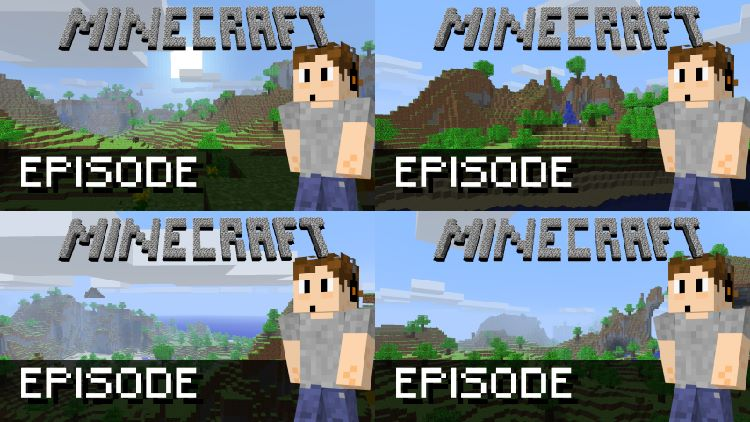
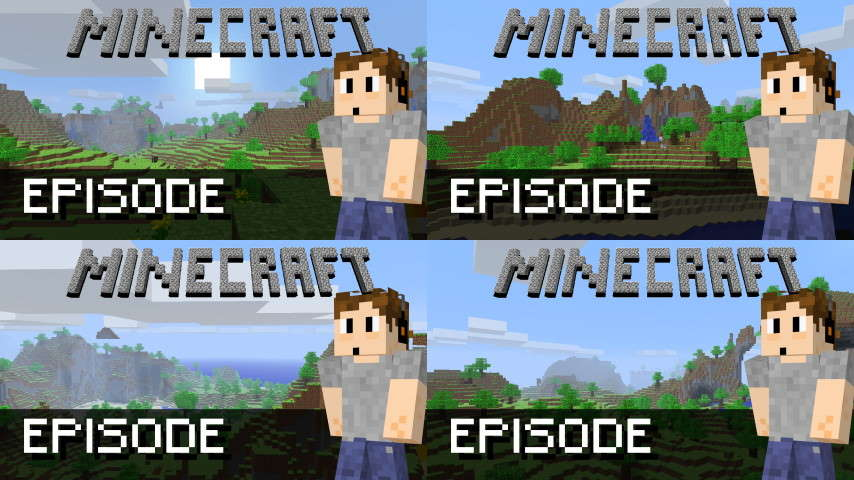
v2.1.0
-background is now a darker blue
-the body now extends to the bottom of the page on all pages
-scaling has been altered
 - 1024px wide for 1920x1080 and up
 - 960px for 1600x900
 - 800px for 1280x1024 and below
-the text "Now at james64.ca" is now a separate right aligned image form the header and now only on the home page
-improved scaling for the image gallery
 -thumbnails now scale to the width of the page
 -the thumbnails are now 854x480 (they were 750x442 since v2.0.0)
 -text is now left aligned
-the game 3dmaze is now displayed at 550x400 (was 640x480)
-the homepage has been redesigned
 -altered paragraph formatting (not too noticeable)
 -added an embed of my latest video with the text "Also here is my latest video:"
 -changed the images for my social media links so they are bigger and use different versions of the logos
 -social media links are now centered at the bottom of the page
-removed the latest entry in upcoming projects since it doesn't apply anymore

diff --git a/index.html b/index.html
@@ -7,14 +7,20 @@
 </head>
 <body>
 <div class="logo">
-<a href="index.html"><img src='assets/logo.gif'></a>
+<a href="index.html"><img src='assets/logo.gif'></a><img class="new" src='assets/new.gif'>
 </div>
 <div class="bar">
 <a href="index.html"><img src='assets/bar/hb.png' onmouseover="this.src='assets/bar/hc.png';" onmouseout="this.src='assets/bar/hb.png';" /><a href="upcoming.html"><img src='assets/bar/up.png' onmouseover="this.src='assets/bar/upa.png';" onmouseout="this.src='assets/bar/up.png';" /><a href="gallery.html"><img src='assets/bar/ig.png' onmouseover="this.src='assets/bar/iga.png';" onmouseout="this.src='assets/bar/ig.png';" /><a href="downloads.html"><img src='assets/bar/dl.png' onmouseover="this.src='assets/bar/dla.png';" onmouseout="this.src='assets/bar/dl.png';" /><a href="games.html"><img src='assets/bar/ga.png' onmouseover="this.src='assets/bar/gaa.png';" onmouseout="this.src='assets/bar/ga.png';" /><a href="about.html"><img src='assets/bar/ab.png' onmouseover="this.src='assets/bar/aba.png';" onmouseout="this.src='assets/bar/ab.png';" /><a>
 </div>
-<p>Welcome to the official James64 website!<br> <br>There isn't a lot here yet, but in the meantime check out my youtube channel, or my twitch stream!</p>
+<p>Welcome to the official James64 website!</p>
+<p>There isn't a lot here yet, but in the meantime check out my youtube channel, or my twitch stream!</p>
+<p>Also here is my latest video:</p>
+<div class="video">
+<object width= 750px height= 422px data="https://www.youtube-nocookie.com/embed/KlZDNiSLvnE?" frameborder="0"></object>
+</div>
 <div class="links">
-<a href="https://www.youtube.com/channel/UC2ynNyTzMG2cJh0oYXlyomw"><img src="assets/yt2.png" alt="YouTube"></a><a href="https://www.twitch.tv/james64live" ><img src="assets/twitch.png" alt="Twitch"</a><a href="https://twitter.com/James__64" ><img src="assets/twitter.png" alt="Twitter"><a>
-<div>
+<a href="https://www.youtube.com/channel/UC2ynNyTzMG2cJh0oYXlyomw"><img src="assets/youtube.gif" alt="YouTube"></a> <a href="https://www.twitch.tv/james64live" ><img src="assets/twitch.png" alt="Twitch"></a> <a href="https://twitter.com/James__64" ><img src="assets/twitter.gif" alt="Twitter"></a>
+</div>
+
 </body>
 </html> 

diff --git a/upcoming.html b/upcoming.html
@@ -13,8 +13,6 @@
 <a href="index.html"><img src='assets/bar/h.png' onmouseover="this.src='assets/bar/ha.png';" onmouseout="this.src='assets/bar/h.png';" /><a href="upcoming.html"><img src='assets/bar/upb.png' onmouseover="this.src='assets/bar/upc.png';" onmouseout="this.src='assets/bar/upb.png';" /><a href="gallery.html"><img src='assets/bar/ig.png' onmouseover="this.src='assets/bar/iga.png';" onmouseout="this.src='assets/bar/ig.png';" /><a href="downloads.html"><img src='assets/bar/dl.png' onmouseover="this.src='assets/bar/dla.png';" onmouseout="this.src='assets/bar/dl.png';" /><a href="games.html"><img src='assets/bar/ga.png' onmouseover="this.src='assets/bar/gaa.png';" onmouseout="this.src='assets/bar/ga.png';" /><a href="about.html"><img src='assets/bar/ab.png' onmouseover="this.src='assets/bar/aba.png';" onmouseout="this.src='assets/bar/ab.png';" /><a>
 </div>
 <div class="upcoming">
-<p style="font-size: 0.75em;">15/08/22</p>
-<p>I've fallen a little behind my plan for daily episodes of the Aether series, episode 9 should be ready by tomorrow. Besides that, I've found recording audio separately is really paying off in terms of editing. </p>
 
 <p style="font-size: 0.75em;">31/07/22</p>
 <p>There will only be three episodes next week since I'll be away and don't have time to get 5 ready. I've also switched to recording my microphone separately from the game audio. It's a bit of a hassle but it pays off in terms of having more options while editing. Also, it seems like obs noise reduction was making my voice sound off sometimes. </p>

diff --git a/downloads.html b/downloads.html
@@ -13,10 +13,10 @@
 <a href="index.html"><img src='assets/bar/h.png' onmouseover="this.src='assets/bar/ha.png';" onmouseout="this.src='assets/bar/h.png';" /><a href="upcoming.html"><img src='assets/bar/up.png' onmouseover="this.src='assets/bar/upa.png';" onmouseout="this.src='assets/bar/up.png';" /><a href="gallery.html"><img src='assets/bar/ig.png' onmouseover="this.src='assets/bar/iga.png';" onmouseout="this.src='assets/bar/ig.png';" /><a href="downloads.html"><img src='assets/bar/dlb.png' onmouseover="this.src='assets/bar/dlc.png';" onmouseout="this.src='assets/bar/dlb.png';" /><a href="games.html"><img src='assets/bar/ga.png' onmouseover="this.src='assets/bar/gaa.png';" onmouseout="this.src='assets/bar/ga.png';" /><a href="about.html"><img src='assets/bar/ab.png' onmouseover="this.src='assets/bar/aba.png';" onmouseout="this.src='assets/bar/ab.png';" /><a>
 </div>
 <p>Minecraft Alpha series world.</p>
-<p><img src="assets/images/downloads/alphaworld.png"</p>
+<p><img class="image" src="assets/images/downloads/alphaworld.jpg"</p>
 <p><a href="https://www.mediafire.com/file/5j987puq20pfpq6/minecraft_alpha_world.zip/file">Download<a></p>
 <p>Beta 1.8.1 texture pack.</p>
-<p><img src="assets/images/downloads/b1.8 pack.png"</p>
+<p><img src="assets/images/downloads/b1.8 pack.jpg"</p>
 <p><a href="https://www.mediafire.com/file/5k0yeuc9xzptf86/b1.8_pack13.zip/file">Latest version<a></p>
 <p><a href="https://www.mediafire.com/file/ebmuevrub3zsv3f/b1.8_pack_old_versions.zip/file">Older versions<a></p>
 </body>

diff --git a/3dmaze.html b/3dmaze.html
@@ -11,8 +11,7 @@
 <a href="index.html"><img src='assets/bar/h.png' onmouseover="this.src='assets/bar/ha.png';" onmouseout="this.src='assets/bar/h.png';" /><a href="upcoming.html"><img src='assets/bar/up.png' onmouseover="this.src='assets/bar/upa.png';" onmouseout="this.src='assets/bar/up.png';" /><a href="gallery.html"><img src='assets/bar/ig.png' onmouseover="this.src='assets/bar/iga.png';" onmouseout="this.src='assets/bar/ig.png';" /><a href="downloads.html"><img src='assets/bar/dl.png' onmouseover="this.src='assets/bar/dla.png';" onmouseout="this.src='assets/bar/dl.png';" /><a href="games.html"><img src='assets/bar/ga.png' onmouseover="this.src='assets/bar/gaa.png';" onmouseout="this.src='assets/bar/ga.png';" /><a href="about.html"><img src='assets/bar/ab.png' onmouseover="this.src='assets/bar/aba.png';" onmouseout="this.src='assets/bar/ab.png';" /><a>
 </div>
 <div class="game">
-<p>3D MAZE</p>
-<object width="640" height="480" data="assets/games/3dmaze/game.html"><a href="https://ruffle.rs/#downloads"><img src="assets/get_ruffle_player.gif" alt="Ruffle flash Emulator"></object>
+<object width="550" height="400" data="assets/games/3dmaze/game.html"><a href="https://ruffle.rs/#downloads"><img src="assets/get_ruffle_player.gif" alt="Ruffle flash Emulator"></object>
 </div>
 <p>Move with "W A S D"</p>
 <p>Tip: if you get lost holding down "S" will eventualy take you back to the first room"</p>

diff --git a/gallery.html b/gallery.html
@@ -14,20 +14,20 @@
 </div>
 <div class="images">
   <p>Aether Mod thumbnails</p>
-  <p><img src="assets/images/aether.jpg"</p>
-  <p> <a href="assets/images/aether/view.html">View<a>
+  <p><img class="image" src="assets/images/aether.jpg"></p>
+  <p> <a href="assets/images/aether/view.html">View<a></p>
   <p>Alpha Adventure thumbnails</p>
-  <p><img src="assets/images/aat.jpg"</p>
-  <p> <a href="assets/images/alpha_adventure/view.html">View<a>
+  <p><img class="image" src="assets/images/aat.jpg"</p>
+  <p> <a href="assets/images/alpha_adventure/view.html">View<a></p>
   <p>Decennium screenshots</p>
-  <p><img src="assets/images/decennium.jpg"</p>
-  <p> <a href="assets/images/decennium/view.html">View<a>
+  <p><img class="image" src="assets/images/decennium.jpg"</p>
+  <p> <a href="assets/images/decennium/view.html">View<a></p>
   <p>Decennium thumbnails</p>
-  <p><img src="assets/images/dec.jpg"</p>
+  <p><img class="image" src="assets/images/dec.jpg"</p>
   <p> <a href="assets/images/decennium_thumbnails/view.html">View<a>
   <p>Alpha serise thumbnail templates</p>
-  <p><img src="assets/images/ast.jpg"</p>
-  <p> <a href="assets/images/alpha1/view.html">View<a>
+  <p><img class="image" src="assets/images/ast.jpg"</p>
+  <p> <a href="assets/images/alpha1/view.html">View<a></p>
 </div>
 </body>
 </html> 

diff --git a/assets/main.css b/assets/main.css
@@ -1,14 +1,16 @@
 html {
-  background-image:url(bgxl3.jpg);
+  width: 100vw;
+  background-image:url(bgxl4.jpg);
   background-size:100% auto;
   position: center;
 }
 body {
   margin: auto;
-  width: 50%;
+  width: 60%;
   min-width: 800px;
+  min-height: 100vh;
   max-width: 1024px;
-  border-radius: 5px;
+  border-radius: 3px;
   background:url(bg.png);
   background-position: center;
   box-shadow: 2px 2px 10px;
@@ -35,17 +37,27 @@ body {
 }
 p {
   padding: 0px 25px;
+  text-align: left;
 }
 .links {
-  text-align: right;
+  text-align: center;
   padding: 25px;
 }
-.images {
+img.new {
+  float: right;
+}
+img.image {
+  width: 100%;
+  height: auto;
+}
+.video {
   text-align: center;
+  padding: 10px;
 }
 .game {
   text-align: center;
   font-size: 1.25em;
+  padding: 10px;
 }
 .games {
   text-align: center;

diff --git a/about.html b/about.html
@@ -19,6 +19,6 @@
 <p>Created 27th of September</p>
 <p> <a href="changelog.txt">Change log</a><br>
 <a href="https://james64.neocities.org">Old site</a></p>
-<p style=>v2.0.2</p>
+<p style=>v2.1.0</p>
 </body>
 </html> 
